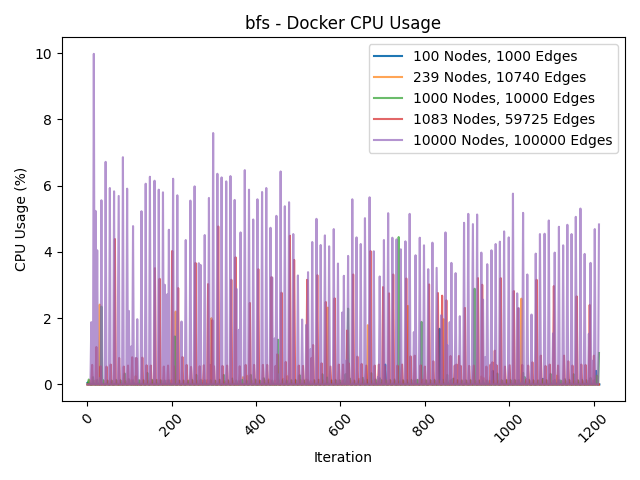
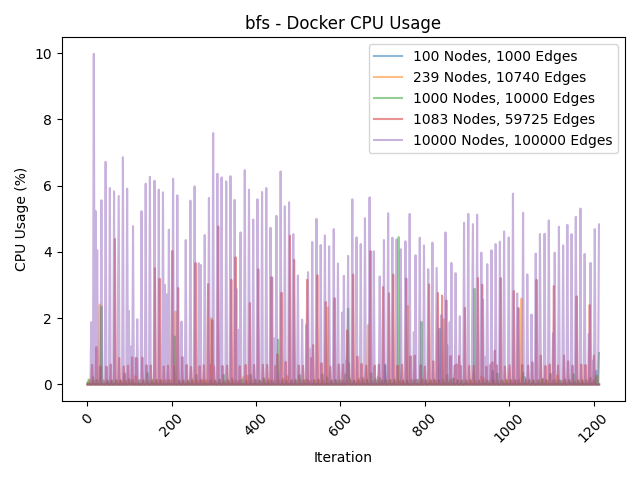
resultViz cleanup

diff --git a/docker/resultViz.py b/docker/resultViz.py
@@ -9,19 +9,22 @@ def read_docker_stats_csv(file_path):
     df['Time'] = (df['start'] + df['end']) / 2
     return df
 
-def plot_cpu_usage(df1, df2, df3, df4, df5, container_name, node_edge_counts, min_start_time1, min_start_time2, min_start_time3, min_start_time4, min_start_time5):
-    container_df1 = df1[df1['Name'] == container_name]
-    container_df2 = df2[df2['Name'] == container_name]
-    container_df3 = df3[df3['Name'] == container_name]
-    container_df4 = df4[df4['Name'] == container_name]
-    container_df5 = df5[df5['Name'] == container_name]
-   
+def plot_cpu_usage(datasets: list, container_name: str):
+
     plt.figure()
-    plt.plot(container_df1['Time'] - min_start_time1, container_df1['CPU %'], label=f"{node_edge_counts[0]} Nodes, {node_edge_counts[1]} Edges")
-    plt.plot(container_df2['Time'] - min_start_time2, container_df2['CPU %'], label=f"{node_edge_counts[2]} Nodes, {node_edge_counts[3]} Edges", alpha=.7)
-    plt.plot(container_df3['Time'] - min_start_time3, container_df3['CPU %'], label=f"{node_edge_counts[4]} Nodes, {node_edge_counts[5]} Edges", alpha=.7)
-    plt.plot(container_df4['Time'] - min_start_time4, container_df4['CPU %'], label=f"{node_edge_counts[6]} Nodes, {node_edge_counts[7]} Edges", alpha=.7)
-    plt.plot(container_df5['Time'] - min_start_time5, container_df5['CPU %'], label=f"{node_edge_counts[8]} Nodes, {node_edge_counts[9]} Edges", alpha=.7)
+
+
+    for dataset in datasets:
+        df = dataset[0]
+        n_c = dataset[1]
+        e_c = dataset[2]
+        min_time = dataset[3]
+
+        container_df = df[df['Name'] == container_name]
+
+   
+        plt.plot(container_df['Time'] - min_time, container_df['CPU %'], label=f"{n_c} Nodes, {e_c} Edges", alpha = .5)
+
 
     plt.xlabel('Iteration')
     plt.ylabel('CPU Usage (%)')
@@ -32,20 +35,20 @@ def plot_cpu_usage(df1, df2, df3, df4, df5, container_name, node_edge_counts, mi
     plt.savefig(f'{container_name}_cpu_usage_comparison.png')
 
 
-def plot_memory_usage(df1, df2, df3, df4, df5, container_name, node_edge_counts, min_start_time1, min_start_time2, min_start_time3, min_start_time4, min_start_time5):
-    container_df1 = df1[df1['Name'] == container_name]
-    container_df2 = df2[df2['Name'] == container_name]
-    container_df3 = df3[df3['Name'] == container_name]
-    container_df4 = df4[df4['Name'] == container_name]
-    container_df5 = df5[df5['Name'] == container_name]
-
+def plot_memory_usage(datasets: list, container_name: str):
 
     plt.figure()
-    plt.plot(container_df1['Time'] - min_start_time1, container_df1['Mem %'], label=f"{node_edge_counts[0]} Nodes, {node_edge_counts[1]} Edges")
-    plt.plot(container_df2['Time'] - min_start_time2, container_df2['Mem %'], label=f"{node_edge_counts[2]} Nodes, {node_edge_counts[3]} Edges", alpha=.7)
-    plt.plot(container_df3['Time'] - min_start_time3, container_df3['Mem %'], label=f"{node_edge_counts[4]} Nodes, {node_edge_counts[5]} Edges", alpha=.7)
-    plt.plot(container_df4['Time'] - min_start_time4, container_df4['Mem %'], label=f"{node_edge_counts[6]} Nodes, {node_edge_counts[7]} Edges", alpha=.7)
-    plt.plot(container_df5['Time'] - min_start_time5, container_df5['Mem %'], label=f"{node_edge_counts[8]} Nodes, {node_edge_counts[9]} Edges", alpha=.7)
+
+
+    for dataset in datasets:
+        df = dataset[0]
+        n_c = dataset[1]
+        e_c = dataset[2]
+        min_time = dataset[3]
+        container_df = df[df['Name'] == container_name]
+
+        plt.plot(container_df['Time'] - min_time, container_df['Mem %'], label=f"{n_c} Nodes, {e_c} Edges", alpha = .5)
+
 
     plt.xlabel('Iteration')
     plt.ylabel('Memory Usage (%)')
@@ -56,27 +59,18 @@ def plot_memory_usage(df1, df2, df3, df4, df5, container_name, node_edge_counts,
     plt.savefig(f'{container_name}_memory_usage_comparison.png')
 
 
-def plot_cpu_usage_rolling_avg(df1, df2, df3, df4, df5, container_name, node_edge_counts, min_start_time1, min_start_time2, min_start_time3, min_start_time4, min_start_time5, window_size=100):
-    container_df1 = df1[df1['Name'] == container_name]
-    container_df2 = df2[df2['Name'] == container_name]
-    container_df3 = df3[df3['Name'] == container_name]
-    container_df4 = df4[df4['Name'] == container_name]
-    container_df5 = df5[df5['Name'] == container_name]
-
-
-    rolling_avg1 = container_df1['CPU %'].rolling(window=window_size).mean()
-    rolling_avg2 = container_df2['CPU %'].rolling(window=window_size).mean()
-    rolling_avg3 = container_df3['CPU %'].rolling(window=window_size).mean()
-    rolling_avg4 = container_df4['CPU %'].rolling(window=window_size).mean()
-    rolling_avg5 = container_df5['CPU %'].rolling(window=window_size).mean()
-
+def plot_cpu_usage_rolling_avg(datasets: list, container_name: str, window_size=100):
 
     plt.figure()
-    plt.plot(container_df1['Time'] - min_start_time1, rolling_avg1, label=f"{node_edge_counts[0]} Nodes, {node_edge_counts[1]} Edges")
-    plt.plot(container_df2['Time'] - min_start_time2, rolling_avg2, label=f"{node_edge_counts[2]} Nodes, {node_edge_counts[3]} Edges", alpha=.7)
-    plt.plot(container_df3['Time'] - min_start_time3, rolling_avg3, label=f"{node_edge_counts[4]} Nodes, {node_edge_counts[5]} Edges", alpha=.7)
-    plt.plot(container_df4['Time'] - min_start_time4, rolling_avg4, label=f"{node_edge_counts[6]} Nodes, {node_edge_counts[7]} Edges", alpha=.7)
-    plt.plot(container_df5['Time'] - min_start_time5, rolling_avg5, label=f"{node_edge_counts[8]} Nodes, {node_edge_counts[9]} Edges", alpha=.7)
+
+    for dataset in datasets:
+        df = dataset[0]
+        n_c = dataset[1]
+        e_c = dataset[2]
+        min_time = dataset[3]
+        container_df = df[df['Name'] == container_name]
+        rolling_avg = container_df['CPU %'].rolling(window=window_size).mean()
+        plt.plot(container_df['Time'] - min_time, rolling_avg, label=f"{n_c} Nodes, {e_c} Edges", alpha = .5)
 
     plt.xlabel('Iteration')
     plt.ylabel('CPU Usage Rolling Average (%)')
@@ -85,26 +79,19 @@ def plot_cpu_usage_rolling_avg(df1, df2, df3, df4, df5, container_name, node_edg
     plt.xticks(rotation=45)
     plt.tight_layout()
     plt.savefig(f'{container_name}_cpu_usage_rolling_avg_comparison.png')
-def plot_memory_usage_rolling_avg(df1, df2, df3, df4, df5, container_name, node_edge_counts, min_start_time1, min_start_time2, min_start_time3, min_start_time4, min_start_time5, window_size=100):
-    container_df1 = df1[df1['Name'] == container_name]
-    container_df2 = df2[df2['Name'] == container_name]
-    container_df3 = df3[df3['Name'] == container_name]
-    container_df4 = df4[df4['Name'] == container_name]
-    container_df5 = df5[df5['Name'] == container_name]
 
-    rolling_avg1 = container_df1['Mem %'].rolling(window=window_size).mean()
-    rolling_avg2 = container_df2['Mem %'].rolling(window=window_size).mean()
-    rolling_avg3 = container_df3['Mem %'].rolling(window=window_size).mean()
-    rolling_avg4 = container_df4['Mem %'].rolling(window=window_size).mean()
-    rolling_avg5 = container_df5['Mem %'].rolling(window=window_size).mean()
-
+def plot_memory_usage_rolling_avg(datasets: list, container_name: str, window_size=100):
 
     plt.figure()
-    plt.plot(container_df1['Time'] - min_start_time1, rolling_avg1, label=f"{node_edge_counts[0]} Nodes, {node_edge_counts[1]} Edges")
-    plt.plot(container_df2['Time'] - min_start_time2, rolling_avg2, label=f"{node_edge_counts[2]} Nodes, {node_edge_counts[3]} Edges", alpha=.7)
-    plt.plot(container_df3['Time'] - min_start_time3, rolling_avg3, label=f"{node_edge_counts[4]} Nodes, {node_edge_counts[5]} Edges", alpha=.7)
-    plt.plot(container_df4['Time'] - min_start_time4, rolling_avg4, label=f"{node_edge_counts[6]} Nodes, {node_edge_counts[7]} Edges", alpha=.7)
-    plt.plot(container_df5['Time'] - min_start_time5, rolling_avg5, label=f"{node_edge_counts[8]} Nodes, {node_edge_counts[9]} Edges", alpha=.7)
+
+    for dataset in datasets:
+        df = dataset[0]
+        n_c = dataset[1]
+        e_c = dataset[2]
+        min_time = dataset[3]
+        container_df = df[df['Name'] == container_name]
+        rolling_avg = container_df['Mem %'].rolling(window=window_size).mean()
+        plt.plot(container_df['Time'] - min_time, rolling_avg, label=f"{n_c} Nodes, {e_c} Edges", alpha = .5)
 
     plt.xlabel('Iteration')
     plt.ylabel('Memory Usage Rolling Average (%)')
@@ -115,56 +102,24 @@ def plot_memory_usage_rolling_avg(df1, df2, df3, df4, df5, container_name, node_
     plt.savefig(f'{container_name}_memory_usage_rolling_avg_comparison.png')
 
 
-def calculate_second_half_average(df1, df2, df3, df4, df5):
-    # calculate the mid-point time for each dataset
-    mid_time1 = (df1['start'].max() + df1['end'].min()) / 2
-    mid_time2 = (df2['start'].max() + df2['end'].min()) / 2
-    mid_time3 = (df3['start'].max() + df3['end'].min()) / 2
-    mid_time4 = (df4['start'].max() + df4['end'].min()) / 2
-    mid_time5 = (df5['start'].max() + df5['end'].min()) / 2
+def calculate_second_half_average(datasets: list, container_name):
 
-    
-    unique_container_names = set(df1['Name'].unique()).union(set(df2['Name'].unique())).union(set(df3['Name'].unique())).union(set(df4['Name'].unique())).union(set(df5['Name'].unique()))
-    
-    for container_name in unique_container_names:
-        container_df1 = df1[df1['Name'] == container_name]
-        container_df2 = df2[df2['Name'] == container_name]
-        container_df3 = df3[df3['Name'] == container_name]
-        container_df4 = df4[df4['Name'] == container_name]
-        container_df5 = df5[df5['Name'] == container_name]
-
+    for dataset in datasets:
+        df = dataset[0]
+        n_c = dataset[1]
+        e_c = dataset[2]
+        mid_time = (df['start'].max() + df['end'].min()) / 2
+        container_df = df[df['Name'] == container_name]
         
-        # filter each dataset to include only entries after the mid-point time
-        container_df1_second_half = container_df1[container_df1['start'] > mid_time1]
-        container_df2_second_half = container_df2[container_df2['start'] > mid_time2]
-        container_df3_second_half = container_df3[container_df3['start'] > mid_time3]
-        container_df4_second_half = container_df4[container_df4['start'] > mid_time4]
-        container_df5_second_half = container_df5[container_df5['start'] > mid_time5]
+         # filter each dataset to include only entries after the mid-point time
+        container_df_second_half = container_df[container_df['start'] > mid_time]
 
-        # calculate the average CPU and memory usage for each dataset in the second half
-        avg_cpu_container_df1 = container_df1_second_half['CPU %'].mean()
-        avg_mem_container_df1 = container_df1_second_half['Mem %'].mean()
-        avg_cpu_container_df2 = container_df2_second_half['CPU %'].mean()
-        avg_mem_container_df2 = container_df2_second_half['Mem %'].mean()
-        avg_cpu_container_df3 = container_df3_second_half['CPU %'].mean()
-        avg_mem_container_df3 = container_df3_second_half['Mem %'].mean()
-        avg_cpu_container_df4 = container_df4_second_half['CPU %'].mean()
-        avg_mem_container_df4 = container_df4_second_half['Mem %'].mean()
-        avg_cpu_container_df5 = container_df5_second_half['CPU %'].mean()
-        avg_mem_container_df5 = container_df5_second_half['Mem %'].mean()
-        
+        avg_cpu_container_df = container_df_second_half['CPU %'].mean()
+        avg_mem_container_df = container_df_second_half['Mem %'].mean()
+    
         # print the results
-        print(f"Average CPU usage of {container_name} - dataset 1: {avg_cpu_container_df1:.2f}%")
-        print(f"Average memory usage of {container_name} - dataset 1: {avg_mem_container_df1:.2f}%")
-        print(f"Average CPU usage of {container_name} - dataset 2: {avg_cpu_container_df2:.2f}%")
-        print(f"Average memory usage of {container_name} - dataset 2: {avg_mem_container_df2:.2f}%")
-        print(f"Average CPU usage of {container_name} - dataset 3: {avg_cpu_container_df3:.2f}%")
-        print(f"Average memory usage  of {container_name} - dataset 3: {avg_mem_container_df3:.2f}%")
-        print(f"Average CPU usage of {container_name} - dataset 4: {avg_cpu_container_df4:.2f}%")
-        print(f"Average memory usage of {container_name} - dataset 4: {avg_mem_container_df4:.2f}%")
-        print(f"Average CPU usage of {container_name} - dataset 5: {avg_cpu_container_df5:.2f}%")
-        print(f"Average memory usage of {container_name} - dataset 5: {avg_mem_container_df5:.2f}%")
-
+        print(f"Average CPU usage of {container_name} - dataset 1: {avg_cpu_container_df:.2f}%")
+        print(f"Average memory usage of {container_name} - dataset 1: {avg_mem_container_df:.2f}%")
 
 def main():
     file_path1 = input("Enter the path to the first CSV file: ")
@@ -197,6 +152,7 @@ def main():
     edge_count4 = int(df4NE[1])
     node_count5 = int(df5NE[0])
     edge_count5 = int(df5NE[1])
+
     
     min_start_time1 = df1['start'].min()
     min_start_time2 = df2['start'].min()
@@ -204,17 +160,24 @@ def main():
     min_start_time4 = df4['start'].min()
     min_start_time5 = df5['start'].min()
 
+    dataset1 = (df1, node_count1, edge_count1, min_start_time1)
+    dataset2 = (df2, node_count2, edge_count2, min_start_time2)
+    dataset3 = (df3, node_count3, edge_count3, min_start_time3)
+    dataset4 = (df4, node_count4, edge_count4, min_start_time4)
+    dataset5 = (df5, node_count5, edge_count5, min_start_time5)
+
+    datasets = [dataset1, dataset2, dataset3, dataset4, dataset5]
 
     unique_container_names = set(df1['Name'].unique()).union(set(df2['Name'].unique())).union(set(df3['Name'].unique())).union(set(df4['Name'].unique())).union(set(df5['Name'].unique()))
 
     for container_name in unique_container_names:
-        plot_cpu_usage(df1, df2, df3, df4, df5, container_name, (node_count1, edge_count1, node_count2, edge_count2, node_count3, edge_count3, node_count4, edge_count4, node_count5, edge_count5), min_start_time1, min_start_time2, min_start_time3, min_start_time4, min_start_time5)
-        plot_memory_usage(df1, df2, df3, df4, df5, container_name, (node_count1, edge_count1, node_count2, edge_count2, node_count3, edge_count3, node_count4, edge_count4, node_count5, edge_count5), min_start_time1, min_start_time2, min_start_time3, min_start_time4, min_start_time5)
-        plot_cpu_usage_rolling_avg(df1, df2, df3, df4, df5, container_name, (node_count1, edge_count1, node_count2, edge_count2, node_count3, edge_count3, node_count4, edge_count4, node_count5, edge_count5), min_start_time1, min_start_time2, min_start_time3, min_start_time4, min_start_time5)
-        plot_memory_usage_rolling_avg(df1, df2, df3, df4, df5, container_name, (node_count1, edge_count1, node_count2, edge_count2, node_count3, edge_count3, node_count4, edge_count4, node_count5, edge_count5), min_start_time1, min_start_time2, min_start_time3, min_start_time4, min_start_time5)
+        plot_cpu_usage(datasets, container_name)
+        plot_memory_usage(datasets, container_name)
+        plot_cpu_usage_rolling_avg(datasets, container_name)
+        plot_memory_usage_rolling_avg(datasets, container_name)
+        calculate_second_half_average(datasets, container_name)
 
     print("Graphs saved for each container as [container_name]_cpu_usage_comparison.png, [container_name]_memory_usage_comparison.png, [container_name]_cpu_usage_rolling_avg_comparison.png, and [container_name]_memory_usage_rolling_avg_comparison.png")
-    calculate_second_half_average(df1, df2, df3, df4, df5)
 if __name__ == "__main__":
     main()
 
